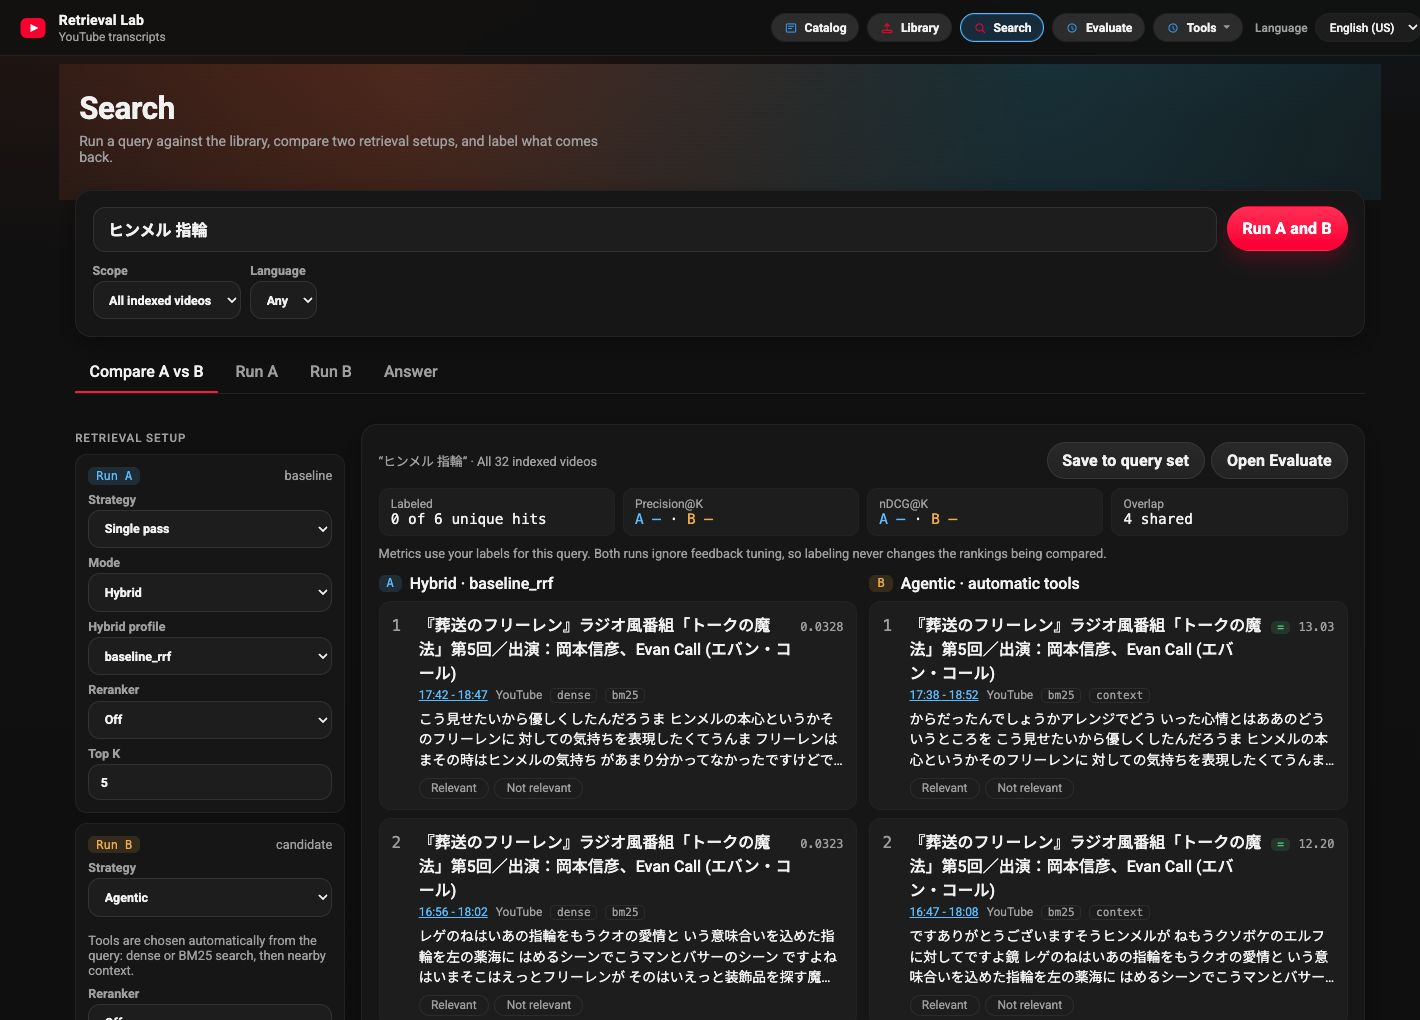
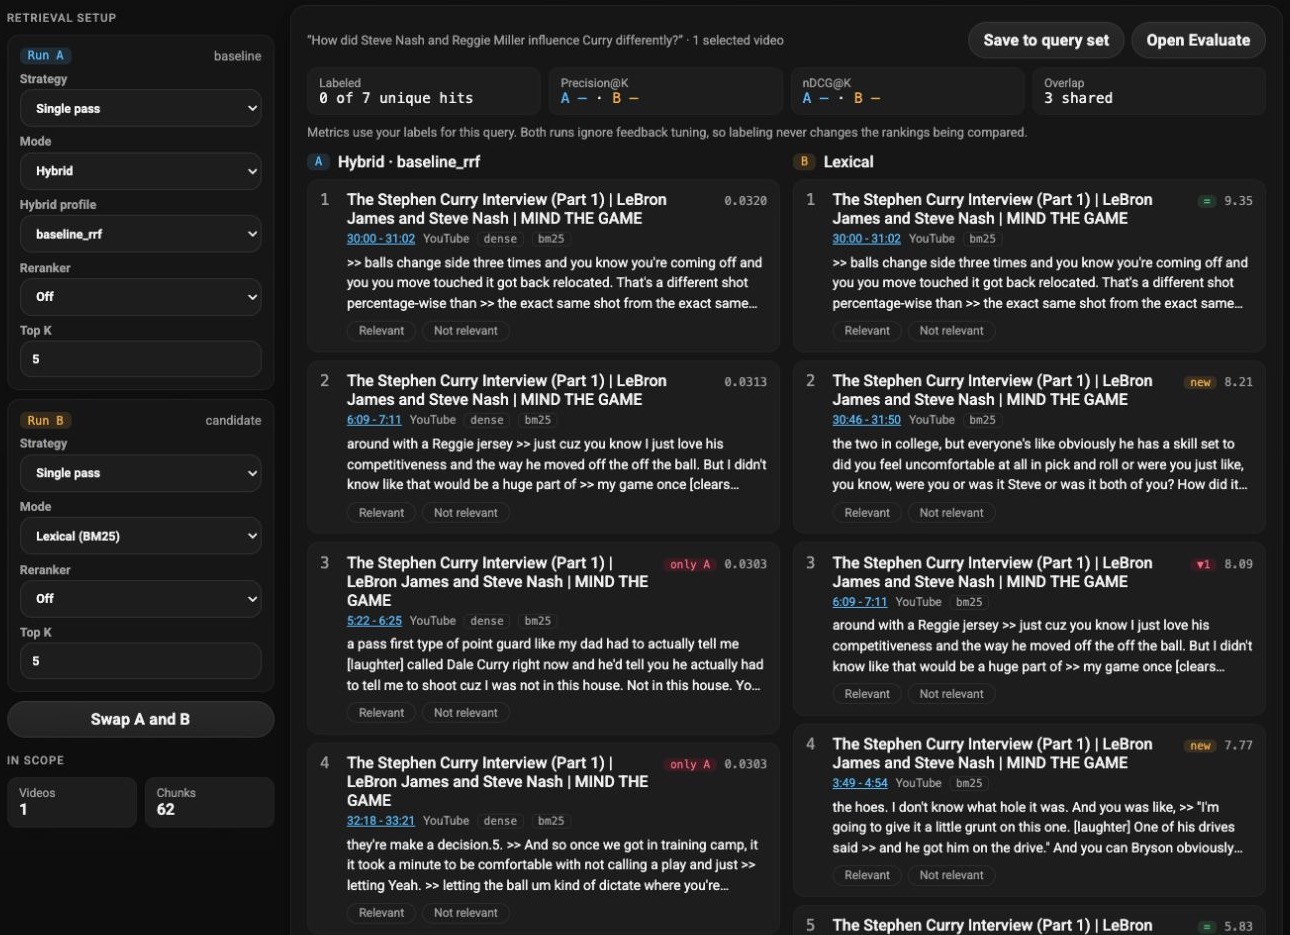
docs: use Curry development questions in retrieval examples

diff --git a/README.md b/README.md
@@ -7,7 +7,7 @@
 YouTube transcripts locally, compare retrieval strategies, and inspect the
 original timestamped evidence before trusting an answer.
 
-![A Japanese query with ranked transcript passages and links to the original video moments](docs/media/retrieval-evidence.jpg)
+![A Stephen Curry question with ranked transcript passages and links to the original video moments](docs/media/retrieval-evidence.jpg)
 
 The public workbench combines meaning-based search (E5 embeddings and FAISS)
 with Japanese-aware keyword search (BM25). An optional deterministic agent reads
@@ -73,17 +73,24 @@ routing, fusion, context expansion, reranking and feedback behavior.
 
 ## Inspect the evidence
 
-![Original Japanese transcript excerpts with source titles, timestamp links and a nearby-context retrieval trace](docs/media/transcript-context.jpg)
+![Original Stephen Curry interview excerpts with source titles, timestamp links and a hybrid retrieval trace](docs/media/transcript-context.jpg)
 
 Original-language text and source moments let you check what was actually
 retrieved. A translation is an explanation, not an original quotation. A title
 or appearance credit does not establish who spoke, and an authentic citation
 can still be irrelevant to the question.
 
-The screenshots show the development query **ヒンメル 指輪** (Himmel, ring)
-retrieved by the real local backend. The second view pairs source excerpts with
-the nearby-context tool trace; excerpts are shortened in the UI. They illustrate
-the workflow, not measured answer accuracy.
+The screenshots revisit two development questions from **The Stephen Curry
+Interview (Part 1)** with LeBron James and Steve Nash:
+
+- How did Steve Nash and Reggie Miller influence Curry differently?
+- How did Curry change his shooting motion in high school?
+
+Both use the real local backend, scoped to that interview. The first compares
+hybrid and keyword retrieval; the second shows hybrid passages and its retrieval
+trace. Excerpts are shortened in the UI. Rankings can include irrelevant passages
+and miss required context; these are unjudged workflow examples, not complete
+answers or measured accuracy.
 
 ## Evaluation status
 
